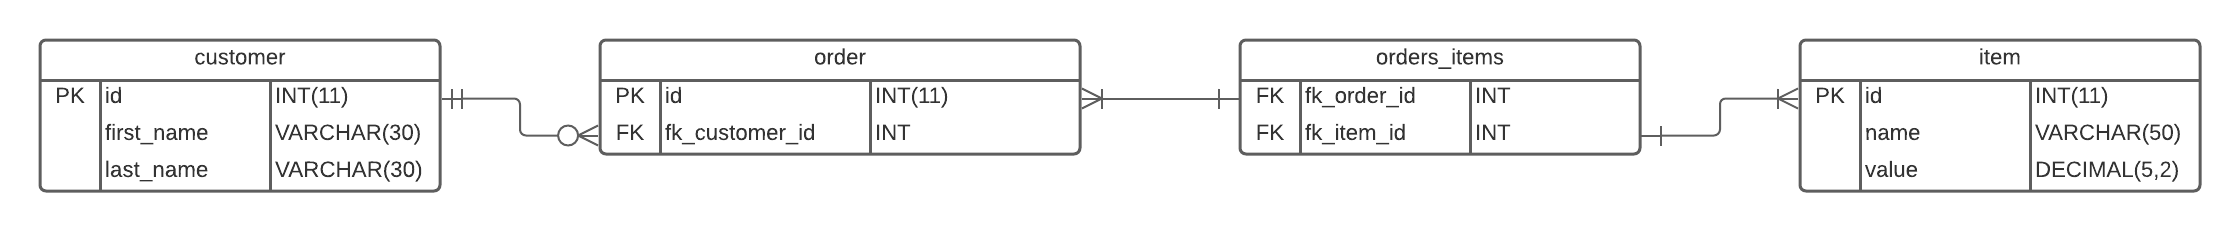
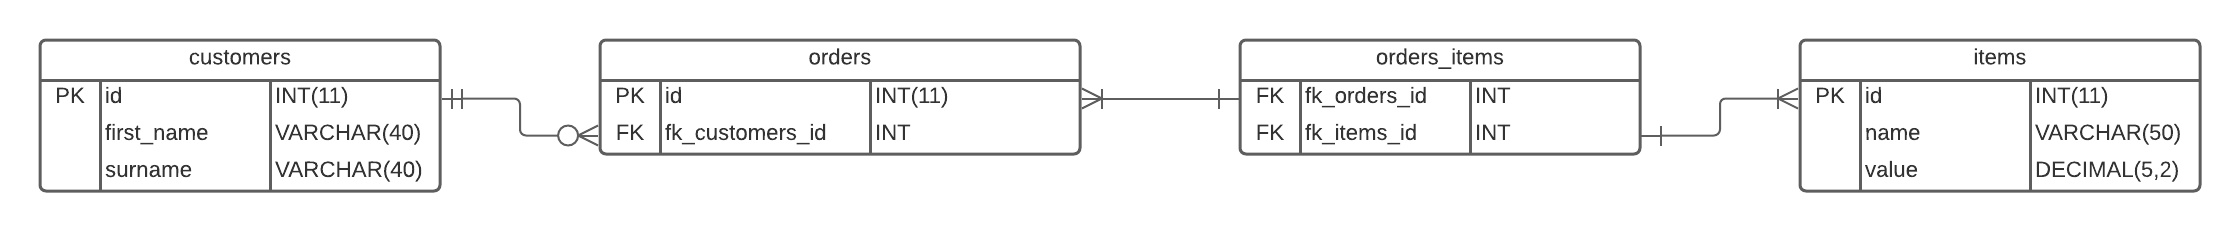
more updates@

diff --git a/README.md b/README.md
@@ -5,51 +5,75 @@
 ## setup 
 
 ```SQL
-drop schema ims;
+DROP SCHEMA ims;
 CREATE SCHEMA IF NOT EXISTS `ims`;
 USE `ims`;
 ```
 
-## customer
+## customers
 
 ```SQL
-CREATE TABLE IF NOT EXISTS `ims` . `customer` (
-	`id` INT(11) NOT NULL PRIMARY KEY AUTO_INCREMENT,
-	`first_name` VARCHAR(30) NULL DEFAULT NULL,
-	`last_name` VARCHAR(30) NULL DEFAULT NULL,
-	PRIMARY KEY (`id`)
+CREATE TABLE IF NOT EXISTS `ims`.`customers` (
+    `id` INT(11) NOT NULL AUTO_INCREMENT,
+    `first_name` VARCHAR(40) DEFAULT NULL,
+    `surname` VARCHAR(40) DEFAULT NULL,
+    PRIMARY KEY (`id`)
 );
 ```
 
-## order
+## orders
 
 ```SQL
-CREATE TABLE IF NOT EXISTS `ims` . `order` (
+CREATE TABLE IF NOT EXISTS `ims` . `orders` (
 	`id` INT(11) NOT NULL AUTO_INCREMENT,
-	`fk_customer_id` INT NOT NULL,
+	`fk_customers_id` INT NOT NULL,
 	PRIMARY KEY (`id`),
-	FOREIGN KEY (`fk_customer_id`) REFERENCES customer(`id`)
+	FOREIGN KEY (`fk_customers_id`) REFERENCES customers(`id`)
+);
+```
+
+## items
+
+```SQL
+CREATE TABLE IF NOT EXISTS `ims` . `items` (
+	`id` INT(11) NOT NULL AUTO_INCREMENT,
+	`name` VARCHAR(50) NOT NULL,
+	`value` DECIMAL(5,2) NOT NULL,
+	PRIMARY KEY (`id`)
 );
 ```
 
 ## orders_items
 
 ```SQL
-CREATE TABLE IF NOT EXISTS `ims` . `order_items` (
-	`fk_order_id` INT NOT NULL,
-	`fk_item_id` INT NOT NULL,
-	FOREIGN KEY (`fk_order_id`) REFERENCES order(`id`),
-	FOREIGN KEY (`fk_item_id`) REFERENCES item(`id`)
+CREATE TABLE IF NOT EXISTS `ims` . `orders_items` (
+	`fk_orders_id` INT NOT NULL,
+	`fk_items_id` INT NOT NULL,
+	FOREIGN KEY (`fk_orders_id`) REFERENCES orders(`id`),
+	FOREIGN KEY (`fk_items_id`) REFERENCES items(`id`)
 );
 ```
 
-## item
+---
 
-```SQL
-CREATE TABLE IF NOT EXISTS `ims` . `item` (
-	`id` INT(11) NOT NULL AUTO_INCREMENT,
-	`name` VARCHAR(50) NOT NULL,
-	`value` DECIMAL(5,2) NOT NULL,
-	PRIMARY KEY (`id`)
-);
+## git stuff
+
+```
+$ git clone ...
+$ cd ...
+```
+
+```
+$ git checkout -b dev
+$ git checkout -b feature1
+```
+
+```
+$ git checkout dev
+$ git merge feature1
+```
+
+```
+$ git checkout main
+$ git merge dev
 ```
